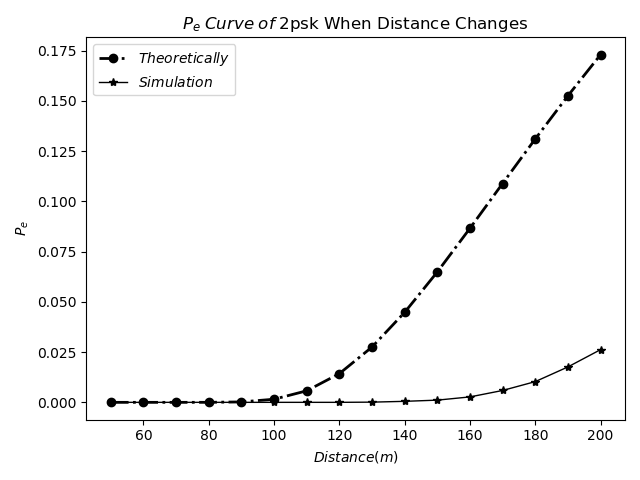
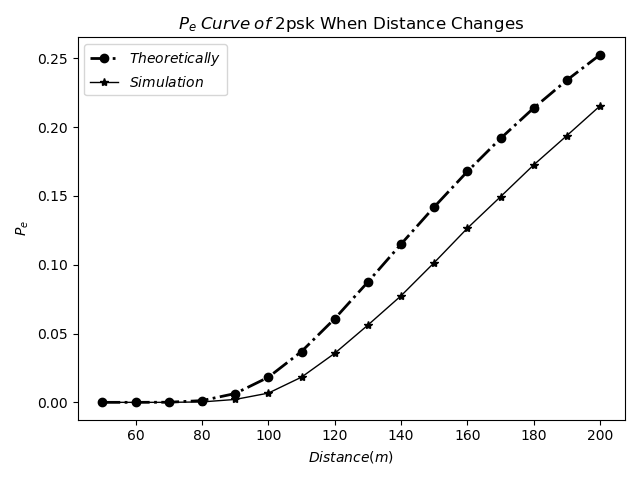
Final Commit!

diff --git a/CSModel/CommunicationModel.py b/CSModel/CommunicationModel.py
@@ -41,7 +41,8 @@ class Communication:
         self.config['__clist1'] = []  # Carrier Signal 1
         self.config['__clist2'] = []  # Carrier Signal 2, ONLY in '2fsk'
         self.config['modulated'] = []  # Modulated Signal
-        self.config['received'] = []  # Received Signal
+        self.config['received_s'] = []  # Received Signal
+        self.config['received'] = []  # Received Signal+Noise
         self.config['demodulated'] = []  # Demodulated Signal
         self.config['demodulated2'] = []  # Demodulated Signal 2, for '2fsk' ONLY
         self.config['Pe'] = 0
@@ -65,16 +66,29 @@ class Communication:
                 + 33 * np.log10(self.config['D'] / self.d0)
 
         PL = 10 ** (PL_dB / 10)
-        self.config['received'] = self.config['modulated'] / np.sqrt(PL)
-        self.config['PR_s'] = self.config['PT'] / PL  # Or 0.5 * max(self.config['received']) ** 2
+        # Signal ONLY!
+        self.config['received_s'] = self.config['modulated'] / np.sqrt(PL)
+        self.config['PR_s'] = self.config['PT'] / PL  # Or 0.5 * max(self.config['received_s']) ** 2
 
     def __awgn__(self):
         __k = 1.38e-23  # J/K
-        self.config['PR_n'] = self.config['B'] * self.config['K'] * __k
+        # Tip: PR_n is the power of noise which is after BPF with band: 2*f_B!
+        self.config['PR_n'] = 2 * self.config['B'] * self.config['K'] * __k
         np.random.seed(self.seed)
-        # TODO 0: Enhance the noise, if necessary, eg. by 2.1937(BFSK) or 2.05(BPSK)
-        self.config['noise'] = np.random.randn(len(self.config['modulated'])) * np.sqrt(self.config['PR_n'])
-        self.config['received'] = self.config['received'] + self.config['noise']
+        # Normalized cut-off frequency. Do NOT forget the '* 2'
+        __corner1 = np.array([self.config['f_c1'] - self.config['f_B'], self.config['f_c1'] + self.config['f_B']]) \
+                    / (self.fs * self.config['f_B']) * 2
+        # 6th order IIR LPF named Butterworth for 'f_c1' of Carrier1
+        __b1, __a1 = signal.butter(6, __corner1, 'bandpass')
+        # White noise is not what we want.
+        self.config['noise'] = np.random.randn(len(self.config['modulated']))
+        # We want Band limited Gaussian noise!
+        self.config['noise'] = signal.filtfilt(__b1, __a1, self.config['noise'])
+        # Make sure the noise power is equivalent to self.config['PR_n'], which is calculated after BPF.
+        self.config['noise'] = self.config['noise'] / np.sqrt(np.var(self.config['noise'])) \
+                               * np.sqrt(self.config['PR_n'])
+        # print(np.var(self.config['noise']), self.config['PR_n'])
+        self.config['received'] = self.config['received_s'] + self.config['noise']
 
     def modulation(self, baseband):
         number = len(self.random_list)
@@ -104,7 +118,9 @@ class Communication:
                     / (self.fs * self.config['f_B']) * 2
         # 6th order IIR LPF named Butterworth for 'f_c1' of Carrier1
         __b1, __a1 = signal.butter(6, __corner1, 'bandpass')  # Just ignore the 'Warning' in pycharm
-        self.config['demodulated'] = signal.filtfilt(__b1, __a1, self.config['received'])
+        self.config['demodulated'] = signal.filtfilt(__b1, __a1, self.config['received_s'])
+        # TODO: Increase noise if necessary, e.g. multiply by 1.16(BPSK) or 1.65(BFSK)
+        self.config['demodulated'] = self.config['demodulated'] + self.config['noise'] * 1
         self.config['demodulated'] = self.config['demodulated'] * self.config['__clist1']  # Multiply by carrier
         __corner = 2 * 1 / Communication.fs
         __b, __a = signal.butter(10, __corner, 'lowpass')  # LPF
@@ -121,7 +137,7 @@ class Communication:
             self.config['demodulated2'] = self.config['demodulated2'] * self.config['__clist2']
             self.config['demodulated2'] = signal.filtfilt(__b, __a, self.config['demodulated2'])
             self.demodulated_list = [1 if self.config['demodulated2'][sampling_seq[i]] >
-                                     self.config['demodulated'][sampling_seq[i]] else 0 for i in
+                                          self.config['demodulated'][sampling_seq[i]] else 0 for i in
                                      range(len(self.random_list))]
         else:
             self.demodulated_list = [1 if self.config['demodulated'][sampling_seq[i]] > 0 else 0
@@ -196,7 +212,7 @@ def BER_curve(name, unit, x, SNR, Pe, figure_num=1):
     plt.figure(num=figure_num)
     plt.xlabel(r"$Distance(m)$" if unit == 'm' else r"$Temperature(^\circ C)$")
     plt.ylabel(r"$P_e$")
-    # plt.ylim((-0.004, 0.06))
+    # plt.ylim((-0.01, 0.15))
     plt.title(r'$P_e\;Curve\;of\;${name_} When {var} Changes'
               .format(name_=name, var=('Distance' if unit == 'm' else 'Temperature')))
 

diff --git a/TEST.py b/TEST.py
@@ -1,0 +1,52 @@
+# JUST FOR TEST!!
+# JUST FOR TEST!!
+# JUST FOR TEST!!
+# JUST FOR TEST!!
+# JUST FOR TEST!!
+
+
+from CSModel import CommunicationModel as cm
+import numpy as np
+
+Pe_list1 = []
+SNR_list1 = []
+Pe_list2 = []
+SNR_list2 = []
+T_list = np.arange(23, 35, 1)  # 23~34
+D_list = np.arange(50, 201, 10)  # 50~200
+
+myconfig = {
+    'Modulation': '2psk',  # '2fsk' or '2psk'
+    # f_c1 must > f_B !
+    'f_c1': 40e6,  # Lower carrier frequency in '2fsk' or the carrier frequency in '2psk'.
+    'f_c2': None,  # '2fsk' ONLY! Higher carrier frequency.
+    'B': 20e6,  # Bandwidth
+    'fc': 2.4e9,  # Center frequency = 2.4GHz
+    'PT': 0.001,  # Transmitting power(W)! Equal to -30dBW or 0dBm.
+    'T': 34,  # Celsius degree
+    'D': 100,  # Communication distance
+}
+
+"""1. Modulation"""
+bpsk = cm.Communication(**myconfig)
+
+baseband_seq = bpsk.RandomSequence(number=5000)
+# cm.showsignal(bpsk.config['t'], baseband_seq, bpsk.config['f_B'], figure_num=1,
+#               tilte='Baseband Signal')
+
+modulated_seq = bpsk.modulation(baseband_seq)
+# cm.showsignal(bpsk.config['t'], modulated_seq, bpsk.config['f_B'], figure_num=3,
+#               tilte='Modulated Signal')
+
+"""2. Transmission"""
+
+received_seq = bpsk.transmitted_to_receiver()
+# cm.showsignal(bpsk.config['t'], received_seq, bpsk.config['f_B'], figure_num=5,
+#               tilte='Received Signal({T}℃, {D}m)'.format(T=myconfig['T'], D=myconfig['D']))
+
+"""3. Demodulation"""
+
+demodulation_seq, demodulation_seq2 = bpsk.demodulation()
+# cm.showsignal(bpsk.config['t'], demodulation_seq, bpsk.config['f_B'], figure_num=7,
+#               tilte='Demodulated Signal')
+
